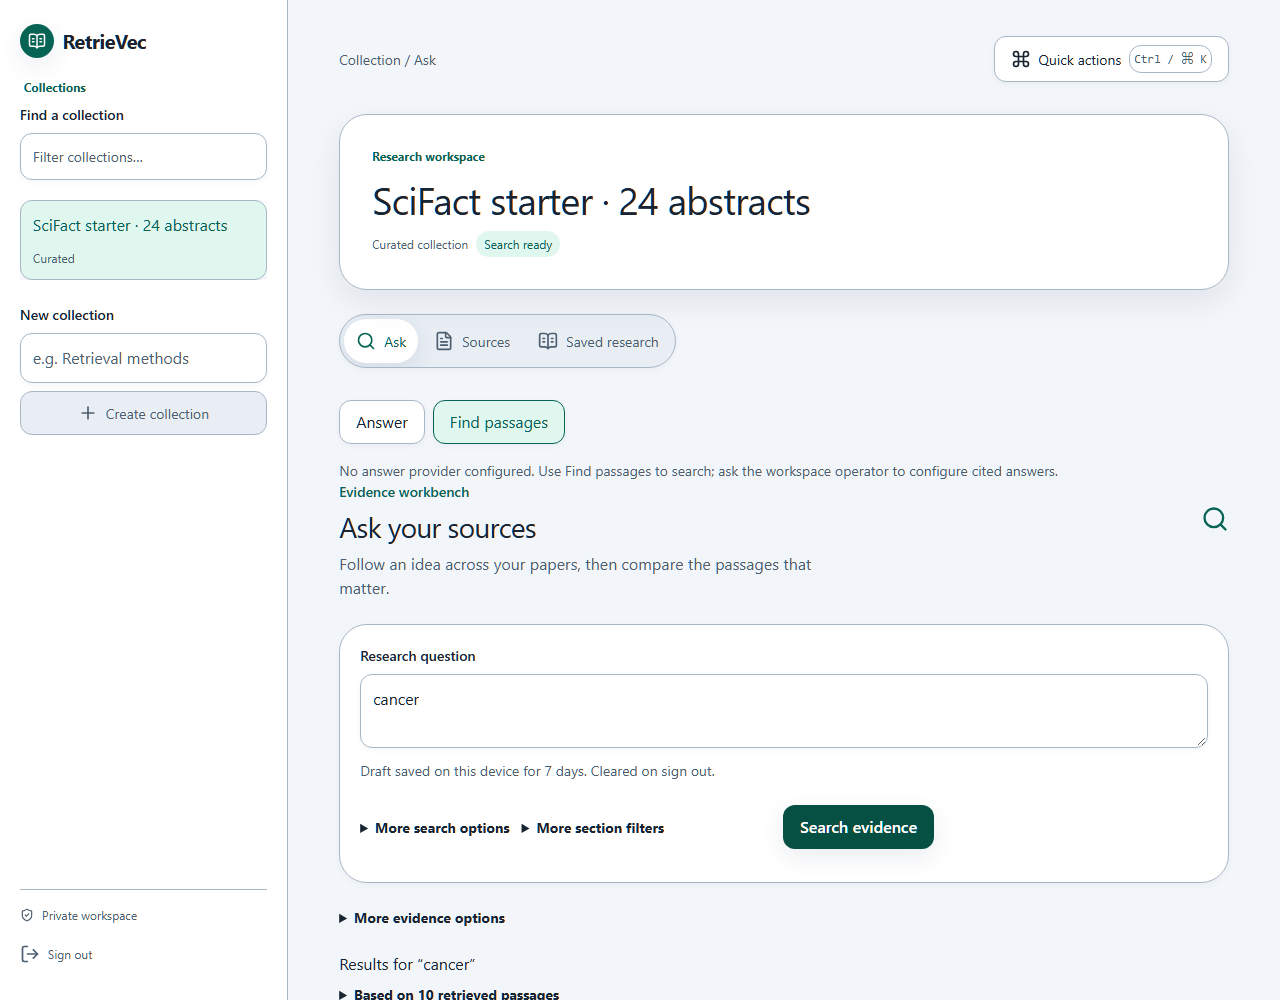
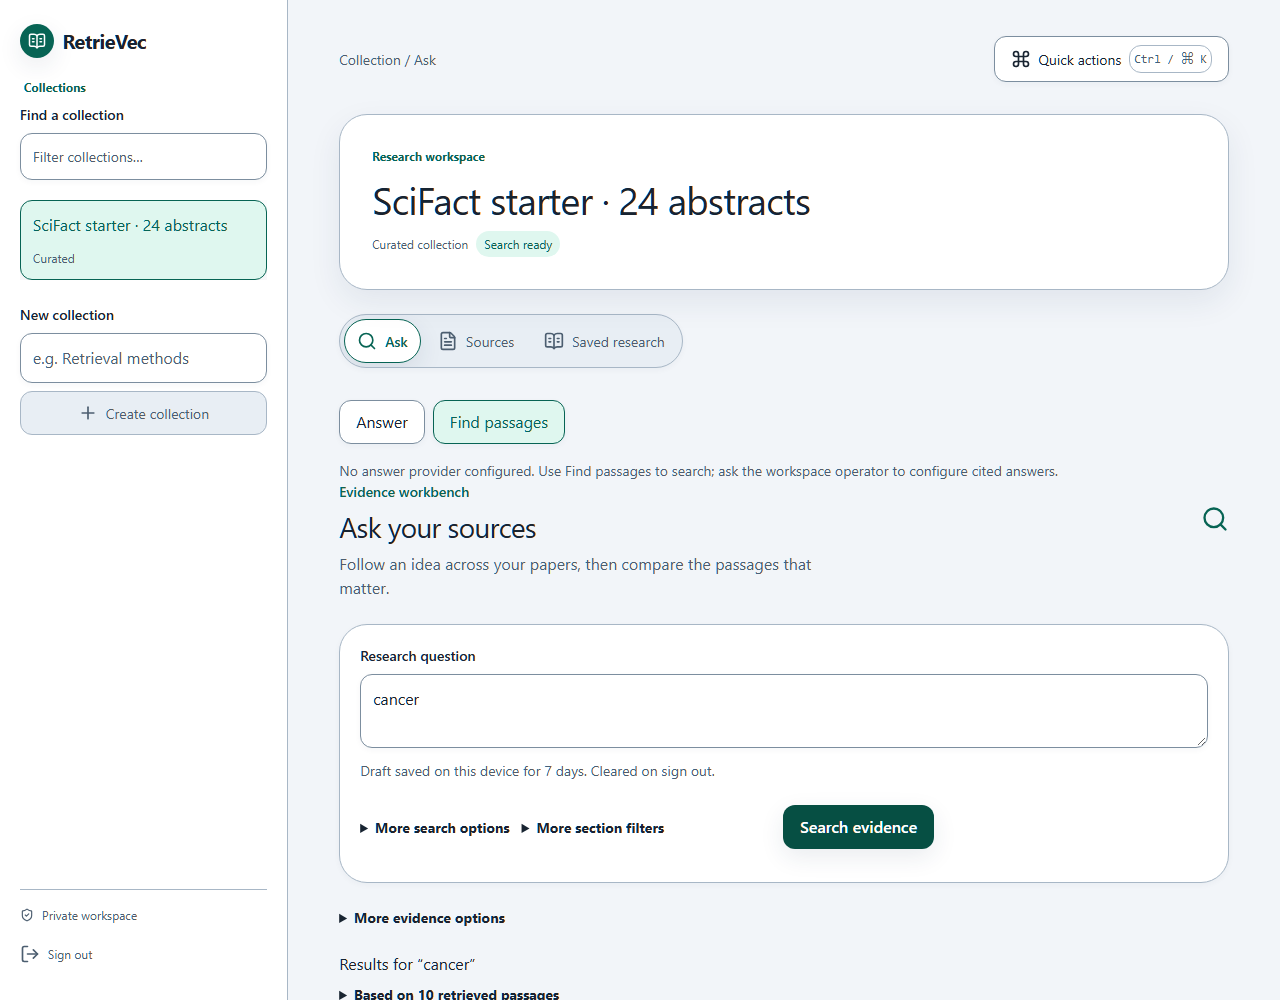
fix: enforce rendered contrast for controls and navigation

Changed region(s): [[0.2812, 0.31, 0.4062, 0.372], [0.4375, 0.341, 0.5312, 0.372], [0.4062, 0.31, 0.4375, 0.341]]

diff --git a/web/src/style.css b/web/src/style.css
@@ -122,7 +122,7 @@ textarea {
 button,
 .button {
   min-height: var(--control-size);
-  border: var(--border-width) solid var(--line);
+  border: var(--border-width) solid var(--control-line);
   border-radius: var(--radius-control);
   background: var(--surface-solid);
   color: var(--ink);
@@ -142,7 +142,7 @@ button,
 }
 button:not(:disabled):hover,
 .button:not(:disabled):hover {
-  border-color: var(--line);
+  border-color: var(--control-line);
   box-shadow: var(--shadow);
 }
 button:not(:disabled):active,
@@ -214,7 +214,7 @@ textarea {
   width: 100%;
   color: var(--ink);
   background: var(--surface-solid);
-  border: var(--border-width) solid var(--line);
+  border: var(--border-width) solid var(--control-line);
   border-radius: var(--radius-control);
   padding: var(--space-3) var(--space-3);
   box-shadow: var(--shadow-sm);
@@ -229,7 +229,7 @@ textarea {
 input:not(:disabled):hover,
 select:not(:disabled):hover,
 textarea:not(:disabled):hover {
-  border-color: var(--line);
+  border-color: var(--control-line);
 }
 input:focus,
 select:focus,
@@ -377,7 +377,7 @@ code {
   margin-top: var(--space-1);
 }
 .collection.selected {
-  border-color: var(--line);
+  border-color: var(--brand);
   background: var(--brand-soft);
   color: var(--brand);
   box-shadow: var(--shadow);
@@ -465,7 +465,7 @@ code {
 .view-tabs button {
   border-radius: var(--radius-pill);
   white-space: nowrap;
-  border: 0;
+  border: var(--border-width) solid var(--transparent);
   background: var(--transparent);
   box-shadow: none;
   color: var(--muted);
@@ -473,6 +473,8 @@ code {
   padding: var(--space-2) var(--space-3);
 }
 .view-tabs button.active {
+  border-color: var(--brand);
+  font-weight: var(--weight-medium);
   color: var(--brand);
   background: var(--surface-solid);
   box-shadow: var(--shadow);
@@ -1258,7 +1260,6 @@ kbd {
   font-size: var(--type-body);
 }
 .inspector-heading {
-  padding-right: var(--space-32);
   display: flex;
   justify-content: space-between;
   padding: 0;

diff --git a/web/ui-tests/design-system.spec.ts b/web/ui-tests/design-system.spec.ts
@@ -391,6 +391,20 @@ for (const width of [1280, 390])
       await measure("skip-link", page.locator(".skip"));
       await measure("footer", page.locator("footer"));
       const question = page.getByLabel("Research question");
+      await measure("control-boundary", question, "border-top-color", 3);
+      await question.hover();
+      await measure("control-hover-boundary", question, "border-top-color", 3);
+      const currentDestination = sections.getByRole("button", {
+        name: "Ask",
+        exact: true,
+      });
+      await expect(currentDestination).not.toHaveCSS("border-top-width", "0px");
+      await measure(
+        "destination-selection",
+        currentDestination,
+        "border-top-color",
+        3,
+      );
       await question.focus();
       await expect(question).toHaveCSS("outline-style", "solid");
       await measure("input-focus", question, "outline-color", 3);

diff --git a/web/src/tokens.css b/web/src/tokens.css
@@ -42,6 +42,7 @@
   --surface: #ffffff;
   --surface-solid: #ffffff;
   --line: #a8b7c6;
+  --control-line: #7c8e9f;
   --brand: #076454;
   --brand-dark: #064f43;
   --brand-soft: #dff7ef;
@@ -103,6 +104,7 @@
     --surface: #1b2734;
     --surface-solid: #1b2734;
     --line: #62788d;
+    --control-line: #758aa0;
     --material-tint: #1b2734f5;
     --material-rim: #96b7ce;
     --material-shadow: inset 0 1px 0 #a0bed02b, 0 12px 32px #00000033;

diff --git a/docs/maintenance-2026-10-06.md b/docs/maintenance-2026-10-06.md
@@ -60,10 +60,17 @@ the profile graph did not indicate a squash.
 | `go doc unicode/utf16.EncodeRune` | Confirms two returned runes; historical compile-error suggestion declined. |
 | `kubectl config current-context` | No context; no live cluster claim. |
 
-The seven guarded contrast checks passed in all four inventory conditions. Light
+The ten guarded contrast checks passed in all four inventory conditions. Light
 footer/code/error/status ratios were 6.11/6.68/7.64/6.31; dark were
 9.94/8.51/8.72/7.18. Light/dark focus ratios were 7.09/9.31. These measurements
 cover named rendered surfaces, not arbitrary retained images or full WCAG conformance.
+
+The added unfocused-control check reproduced a 2.05:1 light-mode border failure.
+Dedicated semantic control-border tokens now measure 3.37:1 light / 4.26:1 dark
+in both resting and hover states. The selected destination's real visible border
+measures 7.09:1 light / 9.31:1 dark; it also has a distinct weight. The complete
+build, 148-test repository check, 33-test UI suite and real demo test were rerun
+after this correction. The README capture is framed from the top of the workspace.
 
 On Windows, the installed npm/npx Node entry points were used because the shell
 shim is broken. The unchanged isolated-database runner supplies private DSNs to

diff --git a/docs/design/MATERIALS.md b/docs/design/MATERIALS.md
@@ -42,6 +42,9 @@ transform. Native activation, focus outlines and keyboard behavior are retained.
 - All three destination controls fit a single navigation group on narrow screens.
   Layout supports 320px with doubled root text; this is a reflow test, not a claim
   of manual browser-zoom or screen-reader certification.
+- Unfocused and hovered input borders meet 3:1 on their rendered reading surface.
+  The selected destination has an explicit contrasting border and stronger text
+  weight; its selected state does not depend on a faint surface tint.
 - Source images keep their original colors. Exact PDF highlights still require
   verified retained locators; unavailable coordinates are never guessed.
 
